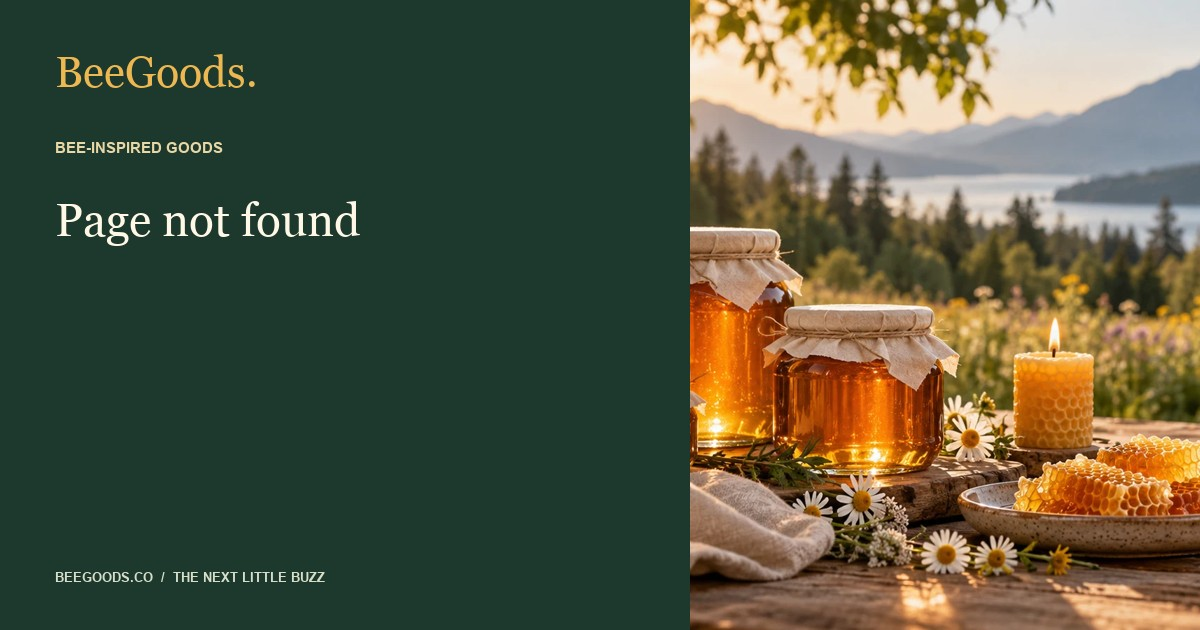
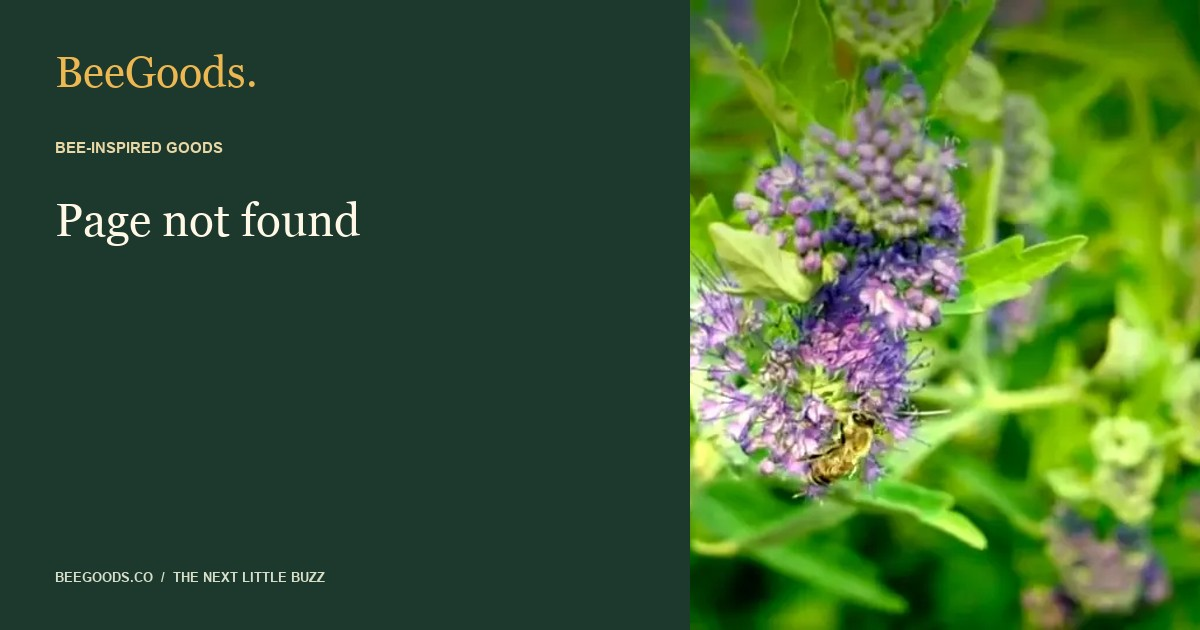
Complete explanatory visuals on credits and error pages; keep 404 out of indexing

diff --git a/public/credits/index.html b/public/credits/index.html
@@ -1,1 +1,1 @@
-<!doctype html><html lang="en-CA"><head><meta charset="utf-8"><meta name="viewport" content="width=device-width, initial-scale=1"><title>Visual credits | BeeGoods</title><meta name="description" content="How BeeGoods distinguishes editorial concepts, stock footage and confirmed products."><link rel="canonical" href="https://beegoods.co/credits/"><meta name="robots" content="index,follow,max-image-preview:large"><meta property="og:title" content="Visual credits"><meta property="og:description" content="How BeeGoods distinguishes editorial concepts, stock footage and confirmed products."><meta property="og:type" content="website"><meta property="og:url" content="https://beegoods.co/credits/"><meta property="og:image" content="https://beegoods.co/share/credits.jpg"><meta property="og:image:width" content="1200"><meta property="og:image:height" content="630"><meta property="og:image:alt" content="Visual credits — BeeGoods editorial card"><meta property="og:locale" content="en_CA"><meta name="twitter:card" content="summary_large_image"><meta name="twitter:image" content="https://beegoods.co/share/credits.jpg"><meta name="twitter:title" content="Visual credits"><meta name="twitter:description" content="How BeeGoods distinguishes editorial concepts, stock footage and confirmed products."><link rel="icon" href="/logo.svg" type="image/svg+xml"><link rel="stylesheet" href="/style.css"><script type="application/ld+json">[{"@context": "https://schema.org", "@type": "Organization", "@id": "https://beegoods.co/#organization", "name": "BeeGoods", "url": "https://beegoods.co", "logo": "https://beegoods.co/logo.svg", "parentOrganization": {"@type": "Organization", "name": "Industry Army Marketing", "url": "https://www.industryarmymarketing.com"}}, {"@context": "https://schema.org", "@type": "WebPage", "headline": "Visual credits", "name": "Visual credits", "description": "How BeeGoods distinguishes editorial concepts, stock footage and confirmed products.", "url": "https://beegoods.co/credits/", "image": "https://beegoods.co/share/credits.jpg", "inLanguage": "en-CA", "publisher": {"@id": "https://beegoods.co/#organization"}}, {"@context": "https://schema.org", "@type": "BreadcrumbList", "itemListElement": [{"@type": "ListItem", "position": 1, "name": "BeeGoods", "item": "https://beegoods.co"}, {"@type": "ListItem", "position": 2, "name": "Visual credits", "item": "https://beegoods.co/credits/"}]}]</script></head><body><a class="skip" href="#main">Skip to content</a><header class="site-head"><a class="brand" href="/" aria-label="BeeGoods home"><svg class="bee" viewBox="0 0 100 80" fill="none" xmlns="http://www.w3.org/2000/svg" aria-hidden="true"><ellipse cx="34" cy="25" rx="19" ry="13" transform="rotate(32 34 25)" stroke="currentColor" stroke-width="2.5"/><ellipse cx="66" cy="25" rx="19" ry="13" transform="rotate(-32 66 25)" stroke="currentColor" stroke-width="2.5"/><ellipse cx="50" cy="49" rx="28" ry="20" fill="currentColor"/><path d="M42 30v38M57 30v38" stroke="#1d382d" stroke-width="8"/><path d="m22 49-9 1m65-1 9 1M42 16l-6-9m22 9 6-9" stroke="currentColor" stroke-width="2.5" stroke-linecap="round"/></svg><span class="wordmark">BeeGoods.</span></a><nav aria-label="Main navigation"><a href="/honey/">Honey</a><a href="/home-goods/">Home goods</a><a href="/our-story/">Our story</a><a href="/journal/">Journal</a><a class="pill" href="/contact/">Say hello ↗</a></nav></header><main id="main"><div class="wrap page-hero"><div class="kicker">IMAGE SOURCES</div><h1>Picture the idea.<br/>Know the source.</h1></div><article class="article"><p>Collection and wax still lifes were generated for BeeGoods as launch concepts. They do not show confirmed inventory. Med Bee Tate greenhouse and merchandise images are owner-supplied generated concepts.</p><h2>Bees</h2><p>Illustrative footage: <a href="https://www.pexels.com/video/honey-bee-on-a-flower-5299949/">Brent Olson / Pexels</a>. Licensed through <a href="https://www.pexels.com/license/">Pexels</a>. This is not BeeGoods production or an owned apiary.</p><h2>Honey</h2><p>Illustrative footage: <a href="https://www.pexels.com/video/a-person-dipping-a-honey-dipper-in-a-jar-of-honey-8802319/">Mike Jones / Pexels</a>. Licensed through <a href="https://www.pexels.com/license/">Pexels</a>. This is not BeeGoods production or an owned apiary.</p><h2>Craft</h2><p>Illustrative footage: <a href="https://www.pexels.com/video/a-person-making-candles-6747800/">Pexels</a>. Licensed through <a href="https://www.pexels.com/license/">Pexels</a>. This is not BeeGoods production or an owned apiary.</p><p>Editorial layouts and the new BeeGoods wordmark and bee emblem were created for this launch.</p></article></main><section class="closing"><div class="kicker">THE NEXT LITTLE BUZZ</div><h2>Good things<br/>are growing here.</h2><p>Follow the collection as it takes shape. Or introduce something you make, with a story worth sharing.</p><a class="button light" href="/contact/">Start a conversation ↗</a></section><footer class="footer"><div class="wrap"><div><span class="brand"><svg class="bee" viewBox="0 0 100 80" fill="none" xmlns="http://www.w3.org/2000/svg" aria-hidden="true"><ellipse cx="34" cy="25" rx="19" ry="13" transform="rotate(32 34 25)" stroke="currentColor" stroke-width="2.5"/><ellipse cx="66" cy="25" rx="19" ry="13" transform="rotate(-32 66 25)" stroke="currentColor" stroke-width="2.5"/><ellipse cx="50" cy="49" rx="28" ry="20" fill="currentColor"/><path d="M42 30v38M57 30v38" stroke="#1d382d" stroke-width="8"/><path d="m22 49-9 1m65-1 9 1M42 16l-6-9m22 9 6-9" stroke="currentColor" stroke-width="2.5" stroke-linecap="round"/></svg><span class="wordmark">BeeGoods<span style="color:#b27d14">.</span></span></span><p>Bee-inspired goods. Thoughtful everyday moments.<br/>A developing collection, connected to Med Bee Tate.</p><small>© 2026 BeeGoods.co · An Industry Army Marketing brand.</small></div><nav aria-label="Explore"><b>EXPLORE</b><a href="/honey/">Honey & the table</a><a href="/home-goods/">Wax & home goods</a><a href="/gifts/">Thoughtful gifts</a><a href="/for-makers/">For makers</a><a href="/journal/">The journal</a></nav><nav aria-label="Connected brands"><b>THE WIDER HIVE</b><a href="https://medbeetate.com">Med Bee Tate ↗</a><a href="https://treatments.tv">Treatments.tv ↗</a><a href="https://www.livingwellfestivals.com">Living Well Festivals ↗</a><a href="https://www.industryarmymarketing.com">Industry Army Marketing ↗</a><a href="/privacy/">Privacy & contact</a><a href="/credits/">Visual credits</a></nav></div></footer><details class="floater"><summary>BeeGoods · Say hello</summary><div class="inside"><div class="kicker">A LITTLE INTRODUCTION</div><h3>Meet the<br/>next collection.</h3><p>Collection questions, maker introductions and launch enquiries.</p><a class="button" href="mailto:frameinsteel@gmail.com?subject=BeeGoods%20enquiry">Email the launch team ↗</a><p class="note">Opens your email app. Sending a message does not place an order or subscribe you automatically.</p></div></details><script src="/site.js" defer></script></body></html>
+<!doctype html><html lang="en-CA"><head><meta charset="utf-8"><meta name="viewport" content="width=device-width, initial-scale=1"><title>Visual credits | BeeGoods</title><meta name="description" content="How BeeGoods distinguishes editorial concepts, stock footage and confirmed products."><link rel="canonical" href="https://beegoods.co/credits/"><meta name="robots" content="index,follow,max-image-preview:large"><meta property="og:title" content="Visual credits"><meta property="og:description" content="How BeeGoods distinguishes editorial concepts, stock footage and confirmed products."><meta property="og:type" content="website"><meta property="og:url" content="https://beegoods.co/credits/"><meta property="og:image" content="https://beegoods.co/share/credits.jpg"><meta property="og:image:width" content="1200"><meta property="og:image:height" content="630"><meta property="og:image:alt" content="Visual credits — BeeGoods editorial card"><meta property="og:locale" content="en_CA"><meta name="twitter:card" content="summary_large_image"><meta name="twitter:image" content="https://beegoods.co/share/credits.jpg"><meta name="twitter:title" content="Visual credits"><meta name="twitter:description" content="How BeeGoods distinguishes editorial concepts, stock footage and confirmed products."><link rel="icon" href="/logo.svg" type="image/svg+xml"><link rel="stylesheet" href="/style.css"><script type="application/ld+json">[{"@context": "https://schema.org", "@type": "Organization", "@id": "https://beegoods.co/#organization", "name": "BeeGoods", "url": "https://beegoods.co", "logo": "https://beegoods.co/logo.svg", "parentOrganization": {"@type": "Organization", "name": "Industry Army Marketing", "url": "https://www.industryarmymarketing.com"}}, {"@context": "https://schema.org", "@type": "WebPage", "headline": "Visual credits", "name": "Visual credits", "description": "How BeeGoods distinguishes editorial concepts, stock footage and confirmed products.", "url": "https://beegoods.co/credits/", "image": "https://beegoods.co/share/credits.jpg", "inLanguage": "en-CA", "publisher": {"@id": "https://beegoods.co/#organization"}}, {"@context": "https://schema.org", "@type": "BreadcrumbList", "itemListElement": [{"@type": "ListItem", "position": 1, "name": "BeeGoods", "item": "https://beegoods.co"}, {"@type": "ListItem", "position": 2, "name": "Visual credits", "item": "https://beegoods.co/credits/"}]}]</script></head><body><a class="skip" href="#main">Skip to content</a><header class="site-head"><a class="brand" href="/" aria-label="BeeGoods home"><svg class="bee" viewBox="0 0 100 80" fill="none" xmlns="http://www.w3.org/2000/svg" aria-hidden="true"><ellipse cx="34" cy="25" rx="19" ry="13" transform="rotate(32 34 25)" stroke="currentColor" stroke-width="2.5"/><ellipse cx="66" cy="25" rx="19" ry="13" transform="rotate(-32 66 25)" stroke="currentColor" stroke-width="2.5"/><ellipse cx="50" cy="49" rx="28" ry="20" fill="currentColor"/><path d="M42 30v38M57 30v38" stroke="#1d382d" stroke-width="8"/><path d="m22 49-9 1m65-1 9 1M42 16l-6-9m22 9 6-9" stroke="currentColor" stroke-width="2.5" stroke-linecap="round"/></svg><span class="wordmark">BeeGoods.</span></a><nav aria-label="Main navigation"><a href="/honey/">Honey</a><a href="/home-goods/">Home goods</a><a href="/our-story/">Our story</a><a href="/journal/">Journal</a><a class="pill" href="/contact/">Say hello ↗</a></nav></header><main id="main"><div class="wrap page-hero"><div class="kicker">IMAGE SOURCES / BEEGOODS</div><h1>Picture the idea. Know the source.</h1><p>How we distinguish editorial concepts, stock footage and confirmed products.</p><figure class="page-visual"><img src="/share/credits.jpg" width="1200" height="630" alt="Picture the idea. Know the source. — BeeGoods editorial visual"><figcaption>BeeGoods editorial design. AI-generated collection concept; illustrative goods, not confirmed stock.</figcaption></figure></div><article class="article"><p>Collection and wax still lifes were generated for BeeGoods as launch concepts. They do not show confirmed inventory. Med Bee Tate greenhouse and merchandise images are owner-supplied generated concepts.</p><h2>Bees</h2><p>Illustrative footage: <a href="https://www.pexels.com/video/honey-bee-on-a-flower-5299949/">Brent Olson / Pexels</a>. Licensed through <a href="https://www.pexels.com/license/">Pexels</a>. This is not BeeGoods production or an owned apiary.</p><h2>Honey</h2><p>Illustrative footage: <a href="https://www.pexels.com/video/a-person-dipping-a-honey-dipper-in-a-jar-of-honey-8802319/">Mike Jones / Pexels</a>. Licensed through <a href="https://www.pexels.com/license/">Pexels</a>. This is not BeeGoods production or an owned apiary.</p><h2>Craft</h2><p>Illustrative footage: <a href="https://www.pexels.com/video/a-person-making-candles-6747800/">Pexels</a>. Licensed through <a href="https://www.pexels.com/license/">Pexels</a>. This is not BeeGoods production or an owned apiary.</p><p>Editorial layouts and the new BeeGoods wordmark and bee emblem were created for this launch.</p></article></main><section class="closing"><div class="kicker">THE NEXT LITTLE BUZZ</div><h2>Good things<br/>are growing here.</h2><p>Follow the collection as it takes shape. Or introduce something you make, with a story worth sharing.</p><a class="button light" href="/contact/">Start a conversation ↗</a></section><footer class="footer"><div class="wrap"><div><span class="brand"><svg class="bee" viewBox="0 0 100 80" fill="none" xmlns="http://www.w3.org/2000/svg" aria-hidden="true"><ellipse cx="34" cy="25" rx="19" ry="13" transform="rotate(32 34 25)" stroke="currentColor" stroke-width="2.5"/><ellipse cx="66" cy="25" rx="19" ry="13" transform="rotate(-32 66 25)" stroke="currentColor" stroke-width="2.5"/><ellipse cx="50" cy="49" rx="28" ry="20" fill="currentColor"/><path d="M42 30v38M57 30v38" stroke="#1d382d" stroke-width="8"/><path d="m22 49-9 1m65-1 9 1M42 16l-6-9m22 9 6-9" stroke="currentColor" stroke-width="2.5" stroke-linecap="round"/></svg><span class="wordmark">BeeGoods<span style="color:#b27d14">.</span></span></span><p>Bee-inspired goods. Thoughtful everyday moments.<br/>A developing collection, connected to Med Bee Tate.</p><small>© 2026 BeeGoods.co · An Industry Army Marketing brand.</small></div><nav aria-label="Explore"><b>EXPLORE</b><a href="/honey/">Honey & the table</a><a href="/home-goods/">Wax & home goods</a><a href="/gifts/">Thoughtful gifts</a><a href="/for-makers/">For makers</a><a href="/journal/">The journal</a></nav><nav aria-label="Connected brands"><b>THE WIDER HIVE</b><a href="https://medbeetate.com">Med Bee Tate ↗</a><a href="https://treatments.tv">Treatments.tv ↗</a><a href="https://www.livingwellfestivals.com">Living Well Festivals ↗</a><a href="https://www.industryarmymarketing.com">Industry Army Marketing ↗</a><a href="/privacy/">Privacy & contact</a><a href="/credits/">Visual credits</a></nav></div></footer><details class="floater"><summary>BeeGoods · Say hello</summary><div class="inside"><div class="kicker">A LITTLE INTRODUCTION</div><h3>Meet the<br/>next collection.</h3><p>Collection questions, maker introductions and launch enquiries.</p><a class="button" href="mailto:frameinsteel@gmail.com?subject=BeeGoods%20enquiry">Email the launch team ↗</a><p class="note">Opens your email app. Sending a message does not place an order or subscribe you automatically.</p></div></details><script src="/site.js" defer></script></body></html>

diff --git a/public/404.html b/public/404.html
@@ -1,1 +1,1 @@
-<!doctype html><html lang="en-CA"><head><meta charset="utf-8"><meta name="viewport" content="width=device-width, initial-scale=1"><title>Page not found | BeeGoods</title><meta name="description" content="Find your way back to the BeeGoods collection and journal."><link rel="canonical" href="https://beegoods.co/404/"><meta name="robots" content="index,follow,max-image-preview:large"><meta property="og:title" content="Page not found"><meta property="og:description" content="Find your way back to the BeeGoods collection and journal."><meta property="og:type" content="website"><meta property="og:url" content="https://beegoods.co/404/"><meta property="og:image" content="https://beegoods.co/share/404.jpg"><meta property="og:image:width" content="1200"><meta property="og:image:height" content="630"><meta property="og:image:alt" content="Page not found — BeeGoods editorial card"><meta property="og:locale" content="en_CA"><meta name="twitter:card" content="summary_large_image"><meta name="twitter:image" content="https://beegoods.co/share/404.jpg"><meta name="twitter:title" content="Page not found"><meta name="twitter:description" content="Find your way back to the BeeGoods collection and journal."><link rel="icon" href="/logo.svg" type="image/svg+xml"><link rel="stylesheet" href="/style.css"><script type="application/ld+json">[{"@context": "https://schema.org", "@type": "Organization", "@id": "https://beegoods.co/#organization", "name": "BeeGoods", "url": "https://beegoods.co", "logo": "https://beegoods.co/logo.svg", "parentOrganization": {"@type": "Organization", "name": "Industry Army Marketing", "url": "https://www.industryarmymarketing.com"}}, {"@context": "https://schema.org", "@type": "WebPage", "headline": "Page not found", "name": "Page not found", "description": "Find your way back to the BeeGoods collection and journal.", "url": "https://beegoods.co/404/", "image": "https://beegoods.co/share/404.jpg", "inLanguage": "en-CA", "publisher": {"@id": "https://beegoods.co/#organization"}}, {"@context": "https://schema.org", "@type": "BreadcrumbList", "itemListElement": [{"@type": "ListItem", "position": 1, "name": "BeeGoods", "item": "https://beegoods.co"}, {"@type": "ListItem", "position": 2, "name": "Page not found", "item": "https://beegoods.co/404/"}]}]</script></head><body><a class="skip" href="#main">Skip to content</a><header class="site-head"><a class="brand" href="/" aria-label="BeeGoods home"><svg class="bee" viewBox="0 0 100 80" fill="none" xmlns="http://www.w3.org/2000/svg" aria-hidden="true"><ellipse cx="34" cy="25" rx="19" ry="13" transform="rotate(32 34 25)" stroke="currentColor" stroke-width="2.5"/><ellipse cx="66" cy="25" rx="19" ry="13" transform="rotate(-32 66 25)" stroke="currentColor" stroke-width="2.5"/><ellipse cx="50" cy="49" rx="28" ry="20" fill="currentColor"/><path d="M42 30v38M57 30v38" stroke="#1d382d" stroke-width="8"/><path d="m22 49-9 1m65-1 9 1M42 16l-6-9m22 9 6-9" stroke="currentColor" stroke-width="2.5" stroke-linecap="round"/></svg><span class="wordmark">BeeGoods.</span></a><nav aria-label="Main navigation"><a href="/honey/">Honey</a><a href="/home-goods/">Home goods</a><a href="/our-story/">Our story</a><a href="/journal/">Journal</a><a class="pill" href="/contact/">Say hello ↗</a></nav></header><main id="main"><div class="wrap page-hero"><div class="kicker">A LITTLE OFF THE PATH</div><h1>Let’s head<br/>back to the hive.</h1><p>This page could not be found.</p><a class="button" href="/">BeeGoods home ↗</a></div></main><section class="closing"><div class="kicker">THE NEXT LITTLE BUZZ</div><h2>Good things<br/>are growing here.</h2><p>Follow the collection as it takes shape. Or introduce something you make, with a story worth sharing.</p><a class="button light" href="/contact/">Start a conversation ↗</a></section><footer class="footer"><div class="wrap"><div><span class="brand"><svg class="bee" viewBox="0 0 100 80" fill="none" xmlns="http://www.w3.org/2000/svg" aria-hidden="true"><ellipse cx="34" cy="25" rx="19" ry="13" transform="rotate(32 34 25)" stroke="currentColor" stroke-width="2.5"/><ellipse cx="66" cy="25" rx="19" ry="13" transform="rotate(-32 66 25)" stroke="currentColor" stroke-width="2.5"/><ellipse cx="50" cy="49" rx="28" ry="20" fill="currentColor"/><path d="M42 30v38M57 30v38" stroke="#1d382d" stroke-width="8"/><path d="m22 49-9 1m65-1 9 1M42 16l-6-9m22 9 6-9" stroke="currentColor" stroke-width="2.5" stroke-linecap="round"/></svg><span class="wordmark">BeeGoods<span style="color:#b27d14">.</span></span></span><p>Bee-inspired goods. Thoughtful everyday moments.<br/>A developing collection, connected to Med Bee Tate.</p><small>© 2026 BeeGoods.co · An Industry Army Marketing brand.</small></div><nav aria-label="Explore"><b>EXPLORE</b><a href="/honey/">Honey & the table</a><a href="/home-goods/">Wax & home goods</a><a href="/gifts/">Thoughtful gifts</a><a href="/for-makers/">For makers</a><a href="/journal/">The journal</a></nav><nav aria-label="Connected brands"><b>THE WIDER HIVE</b><a href="https://medbeetate.com">Med Bee Tate ↗</a><a href="https://treatments.tv">Treatments.tv ↗</a><a href="https://www.livingwellfestivals.com">Living Well Festivals ↗</a><a href="https://www.industryarmymarketing.com">Industry Army Marketing ↗</a><a href="/privacy/">Privacy & contact</a><a href="/credits/">Visual credits</a></nav></div></footer><details class="floater"><summary>BeeGoods · Say hello</summary><div class="inside"><div class="kicker">A LITTLE INTRODUCTION</div><h3>Meet the<br/>next collection.</h3><p>Collection questions, maker introductions and launch enquiries.</p><a class="button" href="mailto:frameinsteel@gmail.com?subject=BeeGoods%20enquiry">Email the launch team ↗</a><p class="note">Opens your email app. Sending a message does not place an order or subscribe you automatically.</p></div></details><script src="/site.js" defer></script></body></html>
+<!doctype html><html lang="en-CA"><head><meta charset="utf-8"><meta name="viewport" content="width=device-width, initial-scale=1"><title>Page not found | BeeGoods</title><meta name="description" content="Find your way back to the BeeGoods collection and journal."><link rel="canonical" href="https://beegoods.co/404/"><meta name="robots" content="noindex,follow"><meta property="og:title" content="Page not found"><meta property="og:description" content="Find your way back to the BeeGoods collection and journal."><meta property="og:type" content="website"><meta property="og:url" content="https://beegoods.co/404/"><meta property="og:image" content="https://beegoods.co/share/404.jpg"><meta property="og:image:width" content="1200"><meta property="og:image:height" content="630"><meta property="og:image:alt" content="Page not found — BeeGoods editorial card"><meta property="og:locale" content="en_CA"><meta name="twitter:card" content="summary_large_image"><meta name="twitter:image" content="https://beegoods.co/share/404.jpg"><meta name="twitter:title" content="Page not found"><meta name="twitter:description" content="Find your way back to the BeeGoods collection and journal."><link rel="icon" href="/logo.svg" type="image/svg+xml"><link rel="stylesheet" href="/style.css"><script type="application/ld+json">[{"@context": "https://schema.org", "@type": "Organization", "@id": "https://beegoods.co/#organization", "name": "BeeGoods", "url": "https://beegoods.co", "logo": "https://beegoods.co/logo.svg", "parentOrganization": {"@type": "Organization", "name": "Industry Army Marketing", "url": "https://www.industryarmymarketing.com"}}, {"@context": "https://schema.org", "@type": "WebPage", "headline": "Page not found", "name": "Page not found", "description": "Find your way back to the BeeGoods collection and journal.", "url": "https://beegoods.co/404/", "image": "https://beegoods.co/share/404.jpg", "inLanguage": "en-CA", "publisher": {"@id": "https://beegoods.co/#organization"}}, {"@context": "https://schema.org", "@type": "BreadcrumbList", "itemListElement": [{"@type": "ListItem", "position": 1, "name": "BeeGoods", "item": "https://beegoods.co"}, {"@type": "ListItem", "position": 2, "name": "Page not found", "item": "https://beegoods.co/404/"}]}]</script></head><body><a class="skip" href="#main">Skip to content</a><header class="site-head"><a class="brand" href="/" aria-label="BeeGoods home"><svg class="bee" viewBox="0 0 100 80" fill="none" xmlns="http://www.w3.org/2000/svg" aria-hidden="true"><ellipse cx="34" cy="25" rx="19" ry="13" transform="rotate(32 34 25)" stroke="currentColor" stroke-width="2.5"/><ellipse cx="66" cy="25" rx="19" ry="13" transform="rotate(-32 66 25)" stroke="currentColor" stroke-width="2.5"/><ellipse cx="50" cy="49" rx="28" ry="20" fill="currentColor"/><path d="M42 30v38M57 30v38" stroke="#1d382d" stroke-width="8"/><path d="m22 49-9 1m65-1 9 1M42 16l-6-9m22 9 6-9" stroke="currentColor" stroke-width="2.5" stroke-linecap="round"/></svg><span class="wordmark">BeeGoods.</span></a><nav aria-label="Main navigation"><a href="/honey/">Honey</a><a href="/home-goods/">Home goods</a><a href="/our-story/">Our story</a><a href="/journal/">Journal</a><a class="pill" href="/contact/">Say hello ↗</a></nav></header><main id="main"><div class="wrap page-hero"><div class="kicker">A LITTLE OFF THE PATH / BEEGOODS</div><h1>Let’s head back to the hive.</h1><p>This page could not be found.</p><figure class="page-visual"><img src="/share/404.jpg" width="1200" height="630" alt="Let’s head back to the hive. — BeeGoods editorial visual"><figcaption>BeeGoods editorial design. Illustrative stock frame from the credited Pexels footage; not BeeGoods stock or production.</figcaption></figure></div><div class="wrap content-block"><a class="button" href="/">BeeGoods home ↗</a></div></main><section class="closing"><div class="kicker">THE NEXT LITTLE BUZZ</div><h2>Good things<br/>are growing here.</h2><p>Follow the collection as it takes shape. Or introduce something you make, with a story worth sharing.</p><a class="button light" href="/contact/">Start a conversation ↗</a></section><footer class="footer"><div class="wrap"><div><span class="brand"><svg class="bee" viewBox="0 0 100 80" fill="none" xmlns="http://www.w3.org/2000/svg" aria-hidden="true"><ellipse cx="34" cy="25" rx="19" ry="13" transform="rotate(32 34 25)" stroke="currentColor" stroke-width="2.5"/><ellipse cx="66" cy="25" rx="19" ry="13" transform="rotate(-32 66 25)" stroke="currentColor" stroke-width="2.5"/><ellipse cx="50" cy="49" rx="28" ry="20" fill="currentColor"/><path d="M42 30v38M57 30v38" stroke="#1d382d" stroke-width="8"/><path d="m22 49-9 1m65-1 9 1M42 16l-6-9m22 9 6-9" stroke="currentColor" stroke-width="2.5" stroke-linecap="round"/></svg><span class="wordmark">BeeGoods<span style="color:#b27d14">.</span></span></span><p>Bee-inspired goods. Thoughtful everyday moments.<br/>A developing collection, connected to Med Bee Tate.</p><small>© 2026 BeeGoods.co · An Industry Army Marketing brand.</small></div><nav aria-label="Explore"><b>EXPLORE</b><a href="/honey/">Honey & the table</a><a href="/home-goods/">Wax & home goods</a><a href="/gifts/">Thoughtful gifts</a><a href="/for-makers/">For makers</a><a href="/journal/">The journal</a></nav><nav aria-label="Connected brands"><b>THE WIDER HIVE</b><a href="https://medbeetate.com">Med Bee Tate ↗</a><a href="https://treatments.tv">Treatments.tv ↗</a><a href="https://www.livingwellfestivals.com">Living Well Festivals ↗</a><a href="https://www.industryarmymarketing.com">Industry Army Marketing ↗</a><a href="/privacy/">Privacy & contact</a><a href="/credits/">Visual credits</a></nav></div></footer><details class="floater"><summary>BeeGoods · Say hello</summary><div class="inside"><div class="kicker">A LITTLE INTRODUCTION</div><h3>Meet the<br/>next collection.</h3><p>Collection questions, maker introductions and launch enquiries.</p><a class="button" href="mailto:frameinsteel@gmail.com?subject=BeeGoods%20enquiry">Email the launch team ↗</a><p class="note">Opens your email app. Sending a message does not place an order or subscribe you automatically.</p></div></details><script src="/site.js" defer></script></body></html>

diff --git a/public/404/index.html b/public/404/index.html
@@ -1,1 +1,1 @@
-<!doctype html><html lang="en-CA"><head><meta charset="utf-8"><meta name="viewport" content="width=device-width, initial-scale=1"><title>Page not found | BeeGoods</title><meta name="description" content="Find your way back to the BeeGoods collection and journal."><link rel="canonical" href="https://beegoods.co/404/"><meta name="robots" content="index,follow,max-image-preview:large"><meta property="og:title" content="Page not found"><meta property="og:description" content="Find your way back to the BeeGoods collection and journal."><meta property="og:type" content="website"><meta property="og:url" content="https://beegoods.co/404/"><meta property="og:image" content="https://beegoods.co/share/404.jpg"><meta property="og:image:width" content="1200"><meta property="og:image:height" content="630"><meta property="og:image:alt" content="Page not found — BeeGoods editorial card"><meta property="og:locale" content="en_CA"><meta name="twitter:card" content="summary_large_image"><meta name="twitter:image" content="https://beegoods.co/share/404.jpg"><meta name="twitter:title" content="Page not found"><meta name="twitter:description" content="Find your way back to the BeeGoods collection and journal."><link rel="icon" href="/logo.svg" type="image/svg+xml"><link rel="stylesheet" href="/style.css"><script type="application/ld+json">[{"@context": "https://schema.org", "@type": "Organization", "@id": "https://beegoods.co/#organization", "name": "BeeGoods", "url": "https://beegoods.co", "logo": "https://beegoods.co/logo.svg", "parentOrganization": {"@type": "Organization", "name": "Industry Army Marketing", "url": "https://www.industryarmymarketing.com"}}, {"@context": "https://schema.org", "@type": "WebPage", "headline": "Page not found", "name": "Page not found", "description": "Find your way back to the BeeGoods collection and journal.", "url": "https://beegoods.co/404/", "image": "https://beegoods.co/share/404.jpg", "inLanguage": "en-CA", "publisher": {"@id": "https://beegoods.co/#organization"}}, {"@context": "https://schema.org", "@type": "BreadcrumbList", "itemListElement": [{"@type": "ListItem", "position": 1, "name": "BeeGoods", "item": "https://beegoods.co"}, {"@type": "ListItem", "position": 2, "name": "Page not found", "item": "https://beegoods.co/404/"}]}]</script></head><body><a class="skip" href="#main">Skip to content</a><header class="site-head"><a class="brand" href="/" aria-label="BeeGoods home"><svg class="bee" viewBox="0 0 100 80" fill="none" xmlns="http://www.w3.org/2000/svg" aria-hidden="true"><ellipse cx="34" cy="25" rx="19" ry="13" transform="rotate(32 34 25)" stroke="currentColor" stroke-width="2.5"/><ellipse cx="66" cy="25" rx="19" ry="13" transform="rotate(-32 66 25)" stroke="currentColor" stroke-width="2.5"/><ellipse cx="50" cy="49" rx="28" ry="20" fill="currentColor"/><path d="M42 30v38M57 30v38" stroke="#1d382d" stroke-width="8"/><path d="m22 49-9 1m65-1 9 1M42 16l-6-9m22 9 6-9" stroke="currentColor" stroke-width="2.5" stroke-linecap="round"/></svg><span class="wordmark">BeeGoods.</span></a><nav aria-label="Main navigation"><a href="/honey/">Honey</a><a href="/home-goods/">Home goods</a><a href="/our-story/">Our story</a><a href="/journal/">Journal</a><a class="pill" href="/contact/">Say hello ↗</a></nav></header><main id="main"><div class="wrap page-hero"><div class="kicker">A LITTLE OFF THE PATH</div><h1>Let’s head<br/>back to the hive.</h1><p>This page could not be found.</p><a class="button" href="/">BeeGoods home ↗</a></div></main><section class="closing"><div class="kicker">THE NEXT LITTLE BUZZ</div><h2>Good things<br/>are growing here.</h2><p>Follow the collection as it takes shape. Or introduce something you make, with a story worth sharing.</p><a class="button light" href="/contact/">Start a conversation ↗</a></section><footer class="footer"><div class="wrap"><div><span class="brand"><svg class="bee" viewBox="0 0 100 80" fill="none" xmlns="http://www.w3.org/2000/svg" aria-hidden="true"><ellipse cx="34" cy="25" rx="19" ry="13" transform="rotate(32 34 25)" stroke="currentColor" stroke-width="2.5"/><ellipse cx="66" cy="25" rx="19" ry="13" transform="rotate(-32 66 25)" stroke="currentColor" stroke-width="2.5"/><ellipse cx="50" cy="49" rx="28" ry="20" fill="currentColor"/><path d="M42 30v38M57 30v38" stroke="#1d382d" stroke-width="8"/><path d="m22 49-9 1m65-1 9 1M42 16l-6-9m22 9 6-9" stroke="currentColor" stroke-width="2.5" stroke-linecap="round"/></svg><span class="wordmark">BeeGoods<span style="color:#b27d14">.</span></span></span><p>Bee-inspired goods. Thoughtful everyday moments.<br/>A developing collection, connected to Med Bee Tate.</p><small>© 2026 BeeGoods.co · An Industry Army Marketing brand.</small></div><nav aria-label="Explore"><b>EXPLORE</b><a href="/honey/">Honey & the table</a><a href="/home-goods/">Wax & home goods</a><a href="/gifts/">Thoughtful gifts</a><a href="/for-makers/">For makers</a><a href="/journal/">The journal</a></nav><nav aria-label="Connected brands"><b>THE WIDER HIVE</b><a href="https://medbeetate.com">Med Bee Tate ↗</a><a href="https://treatments.tv">Treatments.tv ↗</a><a href="https://www.livingwellfestivals.com">Living Well Festivals ↗</a><a href="https://www.industryarmymarketing.com">Industry Army Marketing ↗</a><a href="/privacy/">Privacy & contact</a><a href="/credits/">Visual credits</a></nav></div></footer><details class="floater"><summary>BeeGoods · Say hello</summary><div class="inside"><div class="kicker">A LITTLE INTRODUCTION</div><h3>Meet the<br/>next collection.</h3><p>Collection questions, maker introductions and launch enquiries.</p><a class="button" href="mailto:frameinsteel@gmail.com?subject=BeeGoods%20enquiry">Email the launch team ↗</a><p class="note">Opens your email app. Sending a message does not place an order or subscribe you automatically.</p></div></details><script src="/site.js" defer></script></body></html>
+<!doctype html><html lang="en-CA"><head><meta charset="utf-8"><meta name="viewport" content="width=device-width, initial-scale=1"><title>Page not found | BeeGoods</title><meta name="description" content="Find your way back to the BeeGoods collection and journal."><link rel="canonical" href="https://beegoods.co/404/"><meta name="robots" content="noindex,follow"><meta property="og:title" content="Page not found"><meta property="og:description" content="Find your way back to the BeeGoods collection and journal."><meta property="og:type" content="website"><meta property="og:url" content="https://beegoods.co/404/"><meta property="og:image" content="https://beegoods.co/share/404.jpg"><meta property="og:image:width" content="1200"><meta property="og:image:height" content="630"><meta property="og:image:alt" content="Page not found — BeeGoods editorial card"><meta property="og:locale" content="en_CA"><meta name="twitter:card" content="summary_large_image"><meta name="twitter:image" content="https://beegoods.co/share/404.jpg"><meta name="twitter:title" content="Page not found"><meta name="twitter:description" content="Find your way back to the BeeGoods collection and journal."><link rel="icon" href="/logo.svg" type="image/svg+xml"><link rel="stylesheet" href="/style.css"><script type="application/ld+json">[{"@context": "https://schema.org", "@type": "Organization", "@id": "https://beegoods.co/#organization", "name": "BeeGoods", "url": "https://beegoods.co", "logo": "https://beegoods.co/logo.svg", "parentOrganization": {"@type": "Organization", "name": "Industry Army Marketing", "url": "https://www.industryarmymarketing.com"}}, {"@context": "https://schema.org", "@type": "WebPage", "headline": "Page not found", "name": "Page not found", "description": "Find your way back to the BeeGoods collection and journal.", "url": "https://beegoods.co/404/", "image": "https://beegoods.co/share/404.jpg", "inLanguage": "en-CA", "publisher": {"@id": "https://beegoods.co/#organization"}}, {"@context": "https://schema.org", "@type": "BreadcrumbList", "itemListElement": [{"@type": "ListItem", "position": 1, "name": "BeeGoods", "item": "https://beegoods.co"}, {"@type": "ListItem", "position": 2, "name": "Page not found", "item": "https://beegoods.co/404/"}]}]</script></head><body><a class="skip" href="#main">Skip to content</a><header class="site-head"><a class="brand" href="/" aria-label="BeeGoods home"><svg class="bee" viewBox="0 0 100 80" fill="none" xmlns="http://www.w3.org/2000/svg" aria-hidden="true"><ellipse cx="34" cy="25" rx="19" ry="13" transform="rotate(32 34 25)" stroke="currentColor" stroke-width="2.5"/><ellipse cx="66" cy="25" rx="19" ry="13" transform="rotate(-32 66 25)" stroke="currentColor" stroke-width="2.5"/><ellipse cx="50" cy="49" rx="28" ry="20" fill="currentColor"/><path d="M42 30v38M57 30v38" stroke="#1d382d" stroke-width="8"/><path d="m22 49-9 1m65-1 9 1M42 16l-6-9m22 9 6-9" stroke="currentColor" stroke-width="2.5" stroke-linecap="round"/></svg><span class="wordmark">BeeGoods.</span></a><nav aria-label="Main navigation"><a href="/honey/">Honey</a><a href="/home-goods/">Home goods</a><a href="/our-story/">Our story</a><a href="/journal/">Journal</a><a class="pill" href="/contact/">Say hello ↗</a></nav></header><main id="main"><div class="wrap page-hero"><div class="kicker">A LITTLE OFF THE PATH / BEEGOODS</div><h1>Let’s head back to the hive.</h1><p>This page could not be found.</p><figure class="page-visual"><img src="/share/404.jpg" width="1200" height="630" alt="Let’s head back to the hive. — BeeGoods editorial visual"><figcaption>BeeGoods editorial design. Illustrative stock frame from the credited Pexels footage; not BeeGoods stock or production.</figcaption></figure></div><div class="wrap content-block"><a class="button" href="/">BeeGoods home ↗</a></div></main><section class="closing"><div class="kicker">THE NEXT LITTLE BUZZ</div><h2>Good things<br/>are growing here.</h2><p>Follow the collection as it takes shape. Or introduce something you make, with a story worth sharing.</p><a class="button light" href="/contact/">Start a conversation ↗</a></section><footer class="footer"><div class="wrap"><div><span class="brand"><svg class="bee" viewBox="0 0 100 80" fill="none" xmlns="http://www.w3.org/2000/svg" aria-hidden="true"><ellipse cx="34" cy="25" rx="19" ry="13" transform="rotate(32 34 25)" stroke="currentColor" stroke-width="2.5"/><ellipse cx="66" cy="25" rx="19" ry="13" transform="rotate(-32 66 25)" stroke="currentColor" stroke-width="2.5"/><ellipse cx="50" cy="49" rx="28" ry="20" fill="currentColor"/><path d="M42 30v38M57 30v38" stroke="#1d382d" stroke-width="8"/><path d="m22 49-9 1m65-1 9 1M42 16l-6-9m22 9 6-9" stroke="currentColor" stroke-width="2.5" stroke-linecap="round"/></svg><span class="wordmark">BeeGoods<span style="color:#b27d14">.</span></span></span><p>Bee-inspired goods. Thoughtful everyday moments.<br/>A developing collection, connected to Med Bee Tate.</p><small>© 2026 BeeGoods.co · An Industry Army Marketing brand.</small></div><nav aria-label="Explore"><b>EXPLORE</b><a href="/honey/">Honey & the table</a><a href="/home-goods/">Wax & home goods</a><a href="/gifts/">Thoughtful gifts</a><a href="/for-makers/">For makers</a><a href="/journal/">The journal</a></nav><nav aria-label="Connected brands"><b>THE WIDER HIVE</b><a href="https://medbeetate.com">Med Bee Tate ↗</a><a href="https://treatments.tv">Treatments.tv ↗</a><a href="https://www.livingwellfestivals.com">Living Well Festivals ↗</a><a href="https://www.industryarmymarketing.com">Industry Army Marketing ↗</a><a href="/privacy/">Privacy & contact</a><a href="/credits/">Visual credits</a></nav></div></footer><details class="floater"><summary>BeeGoods · Say hello</summary><div class="inside"><div class="kicker">A LITTLE INTRODUCTION</div><h3>Meet the<br/>next collection.</h3><p>Collection questions, maker introductions and launch enquiries.</p><a class="button" href="mailto:frameinsteel@gmail.com?subject=BeeGoods%20enquiry">Email the launch team ↗</a><p class="note">Opens your email app. Sending a message does not place an order or subscribe you automatically.</p></div></details><script src="/site.js" defer></script></body></html>

diff --git a/build.py b/build.py
@@ -30,7 +30,7 @@ def page(path,title,description,body,image='collection-concept',category='Bee-in
  ld=[{'@context':'https://schema.org','@type':'Organization','@id':URL+'/#organization','name':'BeeGoods','url':URL,'logo':URL+'/logo.svg','parentOrganization':{'@type':'Organization','name':'Industry Army Marketing','url':'https://www.industryarmymarketing.com'}}]
  ld.append({'@context':'https://schema.org','@type':'BlogPosting' if article else 'WebPage','headline':title,'name':title,'description':description,'url':canonical,'image':URL+og,'inLanguage':'en-CA','publisher':{'@id':URL+'/#organization'},**({'datePublished':STAMP,'dateModified':STAMP,'author':{'@type':'Organization','name':'BeeGoods Editorial'}} if article else {})})
  ld.append({'@context':'https://schema.org','@type':'BreadcrumbList','itemListElement':[{'@type':'ListItem','position':1,'name':'BeeGoods','item':URL},{'@type':'ListItem','position':2,'name':title,'item':canonical}]})
- html=f'<!doctype html><html lang="en-CA"><head><meta charset="utf-8"><meta name="viewport" content="width=device-width, initial-scale=1"><title>{E(title)} | BeeGoods</title><meta name="description" content="{E(description)}"><link rel="canonical" href="{canonical}"><meta name="robots" content="index,follow,max-image-preview:large"><meta property="og:title" content="{E(title)}"><meta property="og:description" content="{E(description)}"><meta property="og:type" content="{"article" if article else "website"}"><meta property="og:url" content="{canonical}"><meta property="og:image" content="{URL+og}"><meta property="og:image:width" content="1200"><meta property="og:image:height" content="630"><meta property="og:image:alt" content="{E(title)} — BeeGoods editorial card"><meta property="og:locale" content="en_CA"><meta name="twitter:card" content="summary_large_image"><meta name="twitter:image" content="{URL+og}"><meta name="twitter:title" content="{E(title)}"><meta name="twitter:description" content="{E(description)}"><link rel="icon" href="/logo.svg" type="image/svg+xml"><link rel="stylesheet" href="/style.css"><script type="application/ld+json">{json.dumps(ld)}</script></head><body>{HEADER}<main id="main">{body}</main>{FOOTER}<script src="/site.js" defer></script></body></html>'
+ html=f'<!doctype html><html lang="en-CA"><head><meta charset="utf-8"><meta name="viewport" content="width=device-width, initial-scale=1"><title>{E(title)} | BeeGoods</title><meta name="description" content="{E(description)}"><link rel="canonical" href="{canonical}"><meta name="robots" content="{'noindex,follow' if path=='/404/' else 'index,follow,max-image-preview:large'}"><meta property="og:title" content="{E(title)}"><meta property="og:description" content="{E(description)}"><meta property="og:type" content="{"article" if article else "website"}"><meta property="og:url" content="{canonical}"><meta property="og:image" content="{URL+og}"><meta property="og:image:width" content="1200"><meta property="og:image:height" content="630"><meta property="og:image:alt" content="{E(title)} — BeeGoods editorial card"><meta property="og:locale" content="en_CA"><meta name="twitter:card" content="summary_large_image"><meta name="twitter:image" content="{URL+og}"><meta name="twitter:title" content="{E(title)}"><meta name="twitter:description" content="{E(description)}"><link rel="icon" href="/logo.svg" type="image/svg+xml"><link rel="stylesheet" href="/style.css"><script type="application/ld+json">{json.dumps(ld)}</script></head><body>{HEADER}<main id="main">{body}</main>{FOOTER}<script src="/site.js" defer></script></body></html>'
  target=OUT/path.strip('/')/'index.html';target.parent.mkdir(parents=True,exist_ok=True);target.write_text(html);PAGES.append((path,title,description,og,article))
 def video_break(key,kicker,title,text):
  source,credit=SOURCES[key]
@@ -78,9 +78,9 @@ contact=pagehero('Let’s start with hello.','Collection questions, maker introd
 page('/contact/','Say hello to BeeGoods','Email the launch team about collection ideas, maker introductions and future gifts.',contact)
 page('/','A little more good. A little more buzz.','BeeGoods is a developing bee-inspired goods brand: honey, wax, thoughtful gifts and maker stories, connected to Med Bee Tate.',HOME)
 # A helpful 404 retains the brand and navigation.
-notfound='<div class="wrap page-hero"><div class="kicker">A LITTLE OFF THE PATH</div><h1>Let’s head<br/>back to the hive.</h1><p>This page could not be found.</p><a class="button" href="/">BeeGoods home ↗</a></div>'
-page('/404/','Page not found','Find your way back to the BeeGoods collection and journal.',notfound);shutil.copy(OUT/'404/index.html',OUT/'404.html')
-page('/credits/','Visual credits','How BeeGoods distinguishes editorial concepts, stock footage and confirmed products.','<div class="wrap page-hero"><div class="kicker">IMAGE SOURCES</div><h1>Picture the idea.<br/>Know the source.</h1></div><article class="article"><p>Collection and wax still lifes were generated for BeeGoods as launch concepts. They do not show confirmed inventory. Med Bee Tate greenhouse and merchandise images are owner-supplied generated concepts.</p>'+''.join(f'<h2>{key.title()}</h2><p>Illustrative footage: <a href="{url}">{credit}</a>. Licensed through <a href="https://www.pexels.com/license/">Pexels</a>. This is not BeeGoods production or an owned apiary.</p>' for key,(url,credit) in SOURCES.items())+'<p>Editorial layouts and the new BeeGoods wordmark and bee emblem were created for this launch.</p></article>','collection-concept')
+notfound=pagehero('Let’s head back to the hive.','This page could not be found.','A LITTLE OFF THE PATH','bees','404')+'<div class="wrap content-block"><a class="button" href="/">BeeGoods home ↗</a></div>'
+page('/404/','Page not found','Find your way back to the BeeGoods collection and journal.',notfound,'bees');shutil.copy(OUT/'404/index.html',OUT/'404.html')
+page('/credits/','Visual credits','How BeeGoods distinguishes editorial concepts, stock footage and confirmed products.',pagehero('Picture the idea. Know the source.','How we distinguish editorial concepts, stock footage and confirmed products.','IMAGE SOURCES','collection-concept','credits')+'<article class="article"><p>Collection and wax still lifes were generated for BeeGoods as launch concepts. They do not show confirmed inventory. Med Bee Tate greenhouse and merchandise images are owner-supplied generated concepts.</p>'+''.join(f'<h2>{key.title()}</h2><p>Illustrative footage: <a href="{url}">{credit}</a>. Licensed through <a href="https://www.pexels.com/license/">Pexels</a>. This is not BeeGoods production or an owned apiary.</p>' for key,(url,credit) in SOURCES.items())+'<p>Editorial layouts and the new BeeGoods wordmark and bee emblem were created for this launch.</p></article>','collection-concept')
 (OUT/'robots.txt').write_text(f'User-agent: *\nAllow: /\nSitemap: {URL}/sitemap.xml\n')
 (OUT/'sitemap.xml').write_text('<?xml version="1.0" encoding="UTF-8"?><urlset xmlns="http://www.sitemaps.org/schemas/sitemap/0.9">'+''.join(f'<url><loc>{URL}{p}</loc><lastmod>{DATE}</lastmod></url>' for p,*_ in PAGES if p!='/404/')+'</urlset>')
 (OUT/'llms.txt').write_text('# BeeGoods.co\n\nA developing bee-inspired goods brand connected to Med Bee Tate and Industry Army Marketing. No online checkout, confirmed stock or open venue bookings are announced here.\n\n'+ '\n'.join(f'- [{title}]({URL}{path}): {desc}' for path,title,desc,*_ in PAGES if path!='/404/'))
